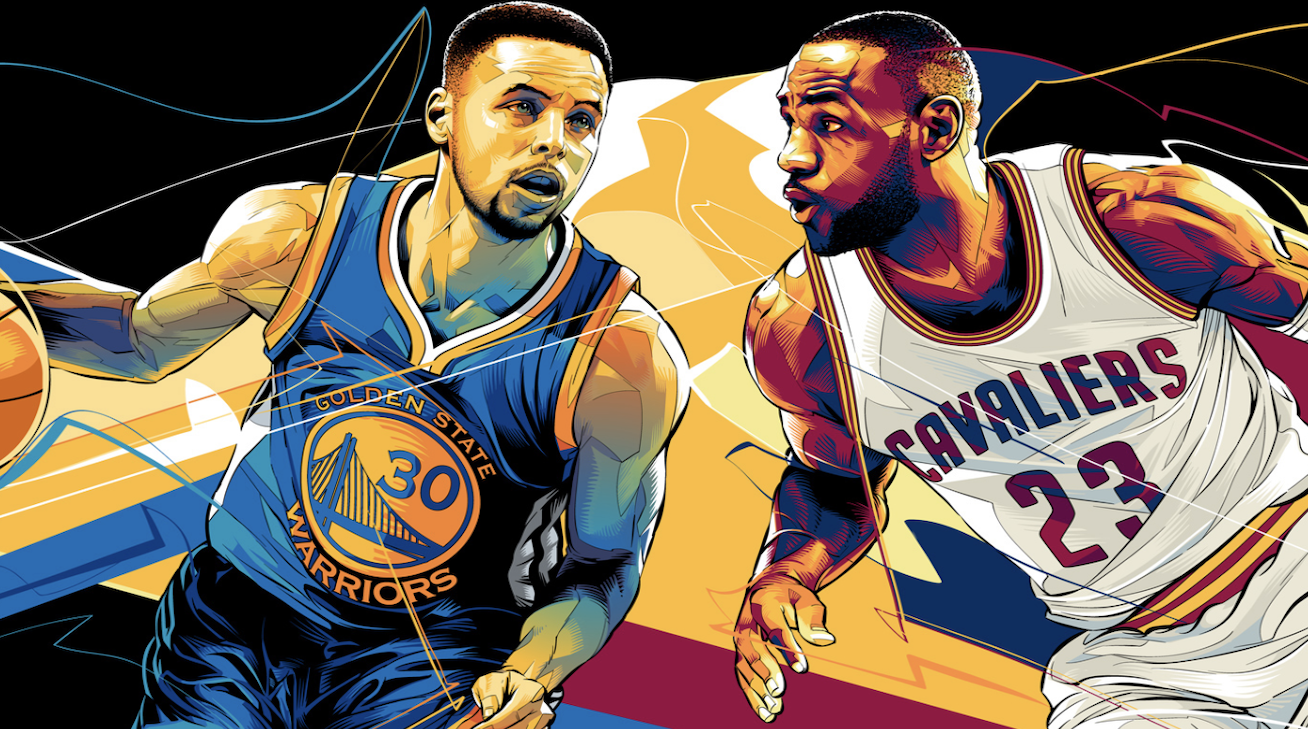
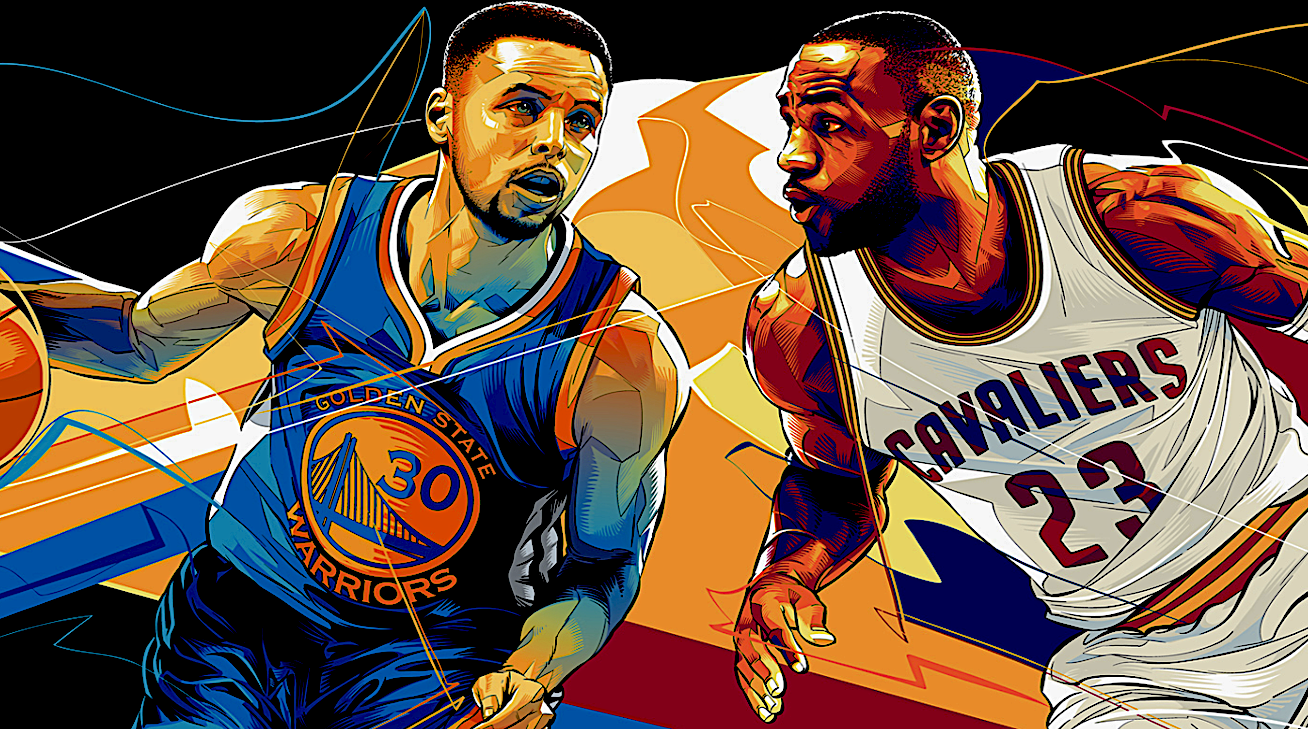
adjusting carousel images, changing some images to fit the uniformity visioned for the application

diff --git a/Gian/static/css/style.css b/Gian/static/css/style.css
@@ -1,3 +1,4 @@
+/* Set Up */
 *{
   padding: 0;
   margin: 0;
@@ -5,24 +6,30 @@
   list-style: none;
   box-sizing: border-box;
 }
+/* End Set Up */
 
+/* Body Alterations */
 body{
   font-family: "Georgia";
   background-color: #000000;
 }
+/* End Body ALterations */
 
-nav{
-  background: #000000;
-  height: 80px;
-  width: 100%;
-}
-
+/* Logo */
 label.logo{
   color: white;
   font-size: 35px;
   line-height: 80px;
   padding: 0 100px;
   font-weight: bold;
+}
+/* End Logo */
+
+/* NavBar Alteration */
+nav{
+  background: #000000;
+  height: 80px;
+  width: 100%;
 }
 
 nav ul{
@@ -103,3 +110,42 @@ a.active, a:hover{
       left: 0;
   }
 }
+/* End NavBar Alterations */
+
+/* Carousel Alteration */
+.carousel-inner img {
+  width: 70%;
+  height: 70%;
+  display: block;
+  margin-left: auto;
+  margin-right: auto;
+}
+
+.carousel-caption {
+  position: absolute;
+  top: 85%;
+  transform: translateY(-20%);
+}
+
+.carousel-caption h1 {
+  font-family: Impact, Charcoal, sans-serif;
+  color: Azure;
+  font-size: 500%;
+  text-transform: uppercase;
+  text-shadow: 20px 20px 100px black;
+}
+
+.carousel-caption h3 {
+  font-family: Impact, Charcoal, sans-serif;
+  color: Azure;
+  font-size: 200%;
+  font-weight: 500;
+  text-shadow: 15px 15px 50px black;
+  padding-bottom: 1rem;
+}
+
+.carousel-caption .btn {
+  font-synthesis: 95%;
+  padding: 8px 14px;
+}
+/* End Carousel Alterations */

diff --git a/Gian/templates/index.html b/Gian/templates/index.html
@@ -57,28 +57,29 @@
 			<div class="carousel-item active">
 				<img src="../static/img/background2.png">
 				<div class="carousel-caption">
-					<h1 class="display-2">Discover the true King of the Court</h1>
+					<h3 class="display-2">Discover the true King of the Court</h3>
 					<button onClick="window.location='pvp.html';" type="button" class="btn btn-primary btn-lg">Player vs Player</button>
 				</div>
 			</div>
 
 			<!-- Second Carousel Item -->
 			<div class="carousel-item">
-				<img src="../static/img/background1.jpg">
+				<img src="../static/img/background3.jpg">
 				<div class="carousel-caption">
-					<h1 class="display-2">The Team that towers above all</h1>
+					<h3 class="display-2">The Team that towers above all</h3>
 					<button onClick="window.location='tvt.html';" type="button" class="btn btn-primary btn-lg">Team vs Team</button>
 				</div>
 			</div>
 
 			<!-- Third Carousel Item -->
 			<div class="carousel-item">
-				<img src="../static/img/background3.png">
+				<img src="../static/img/kb.jpg">
 				<div class="carousel-caption">
-					<h1 class="display-2">Check out our database for statistics</h1>
+					<h3 class="display-2">Check out our database for statistics</h3>
 					<button onClick="window.location='stats.html';" type="button" class="btn btn-primary btn-lg">Database</button>
 				</div>
 			</div>
+			
 		</div>
 	</div>
 	
